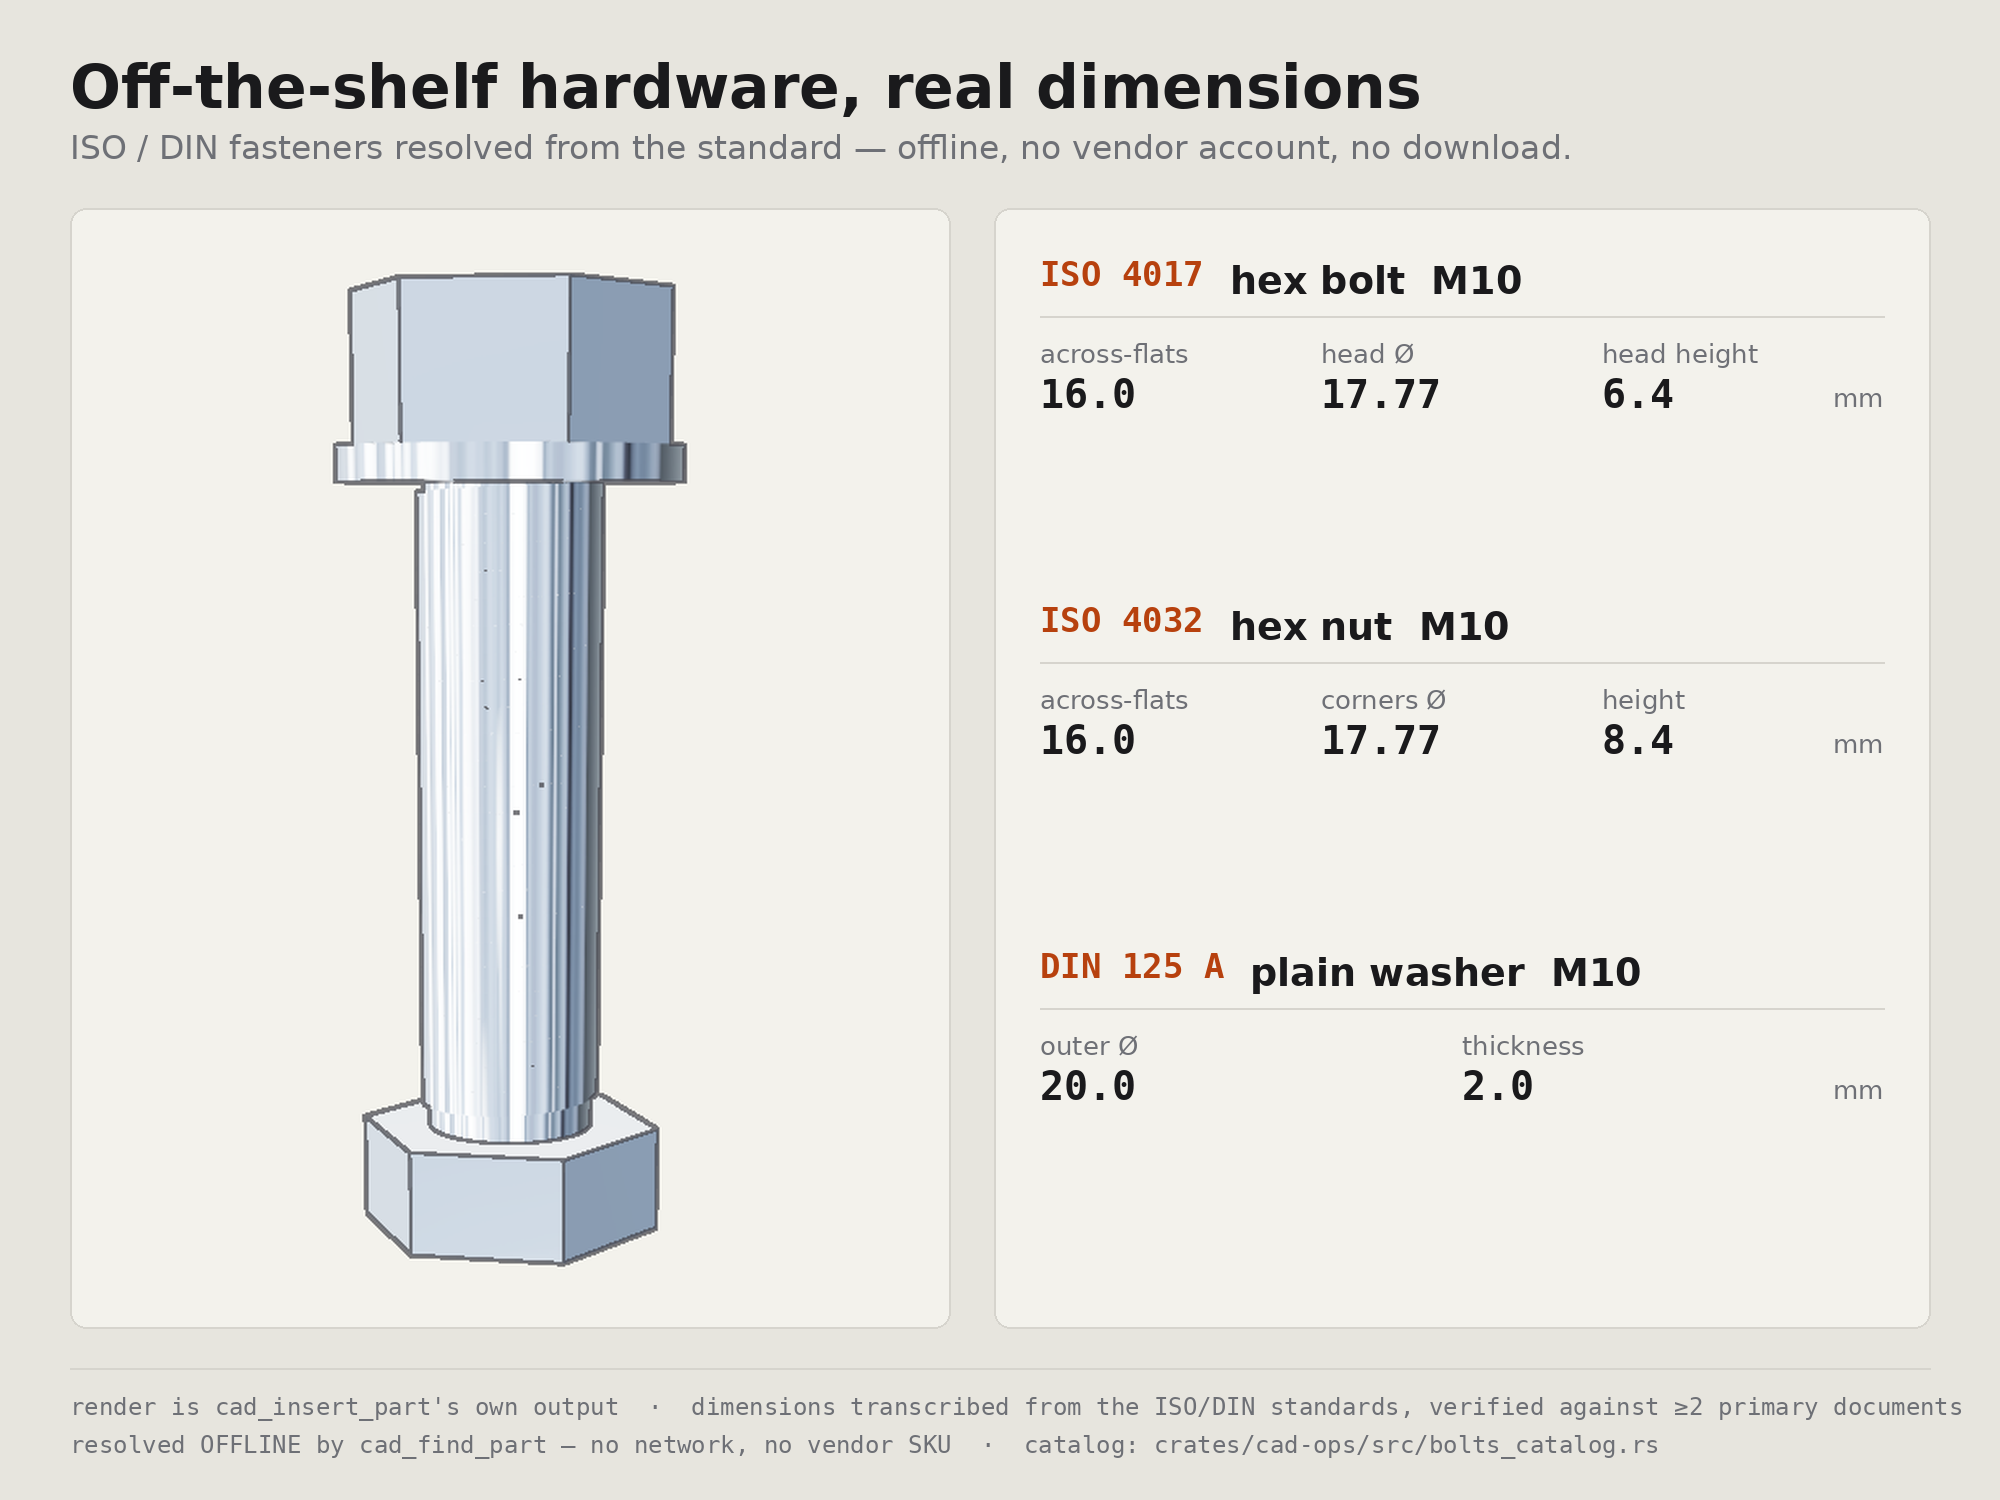
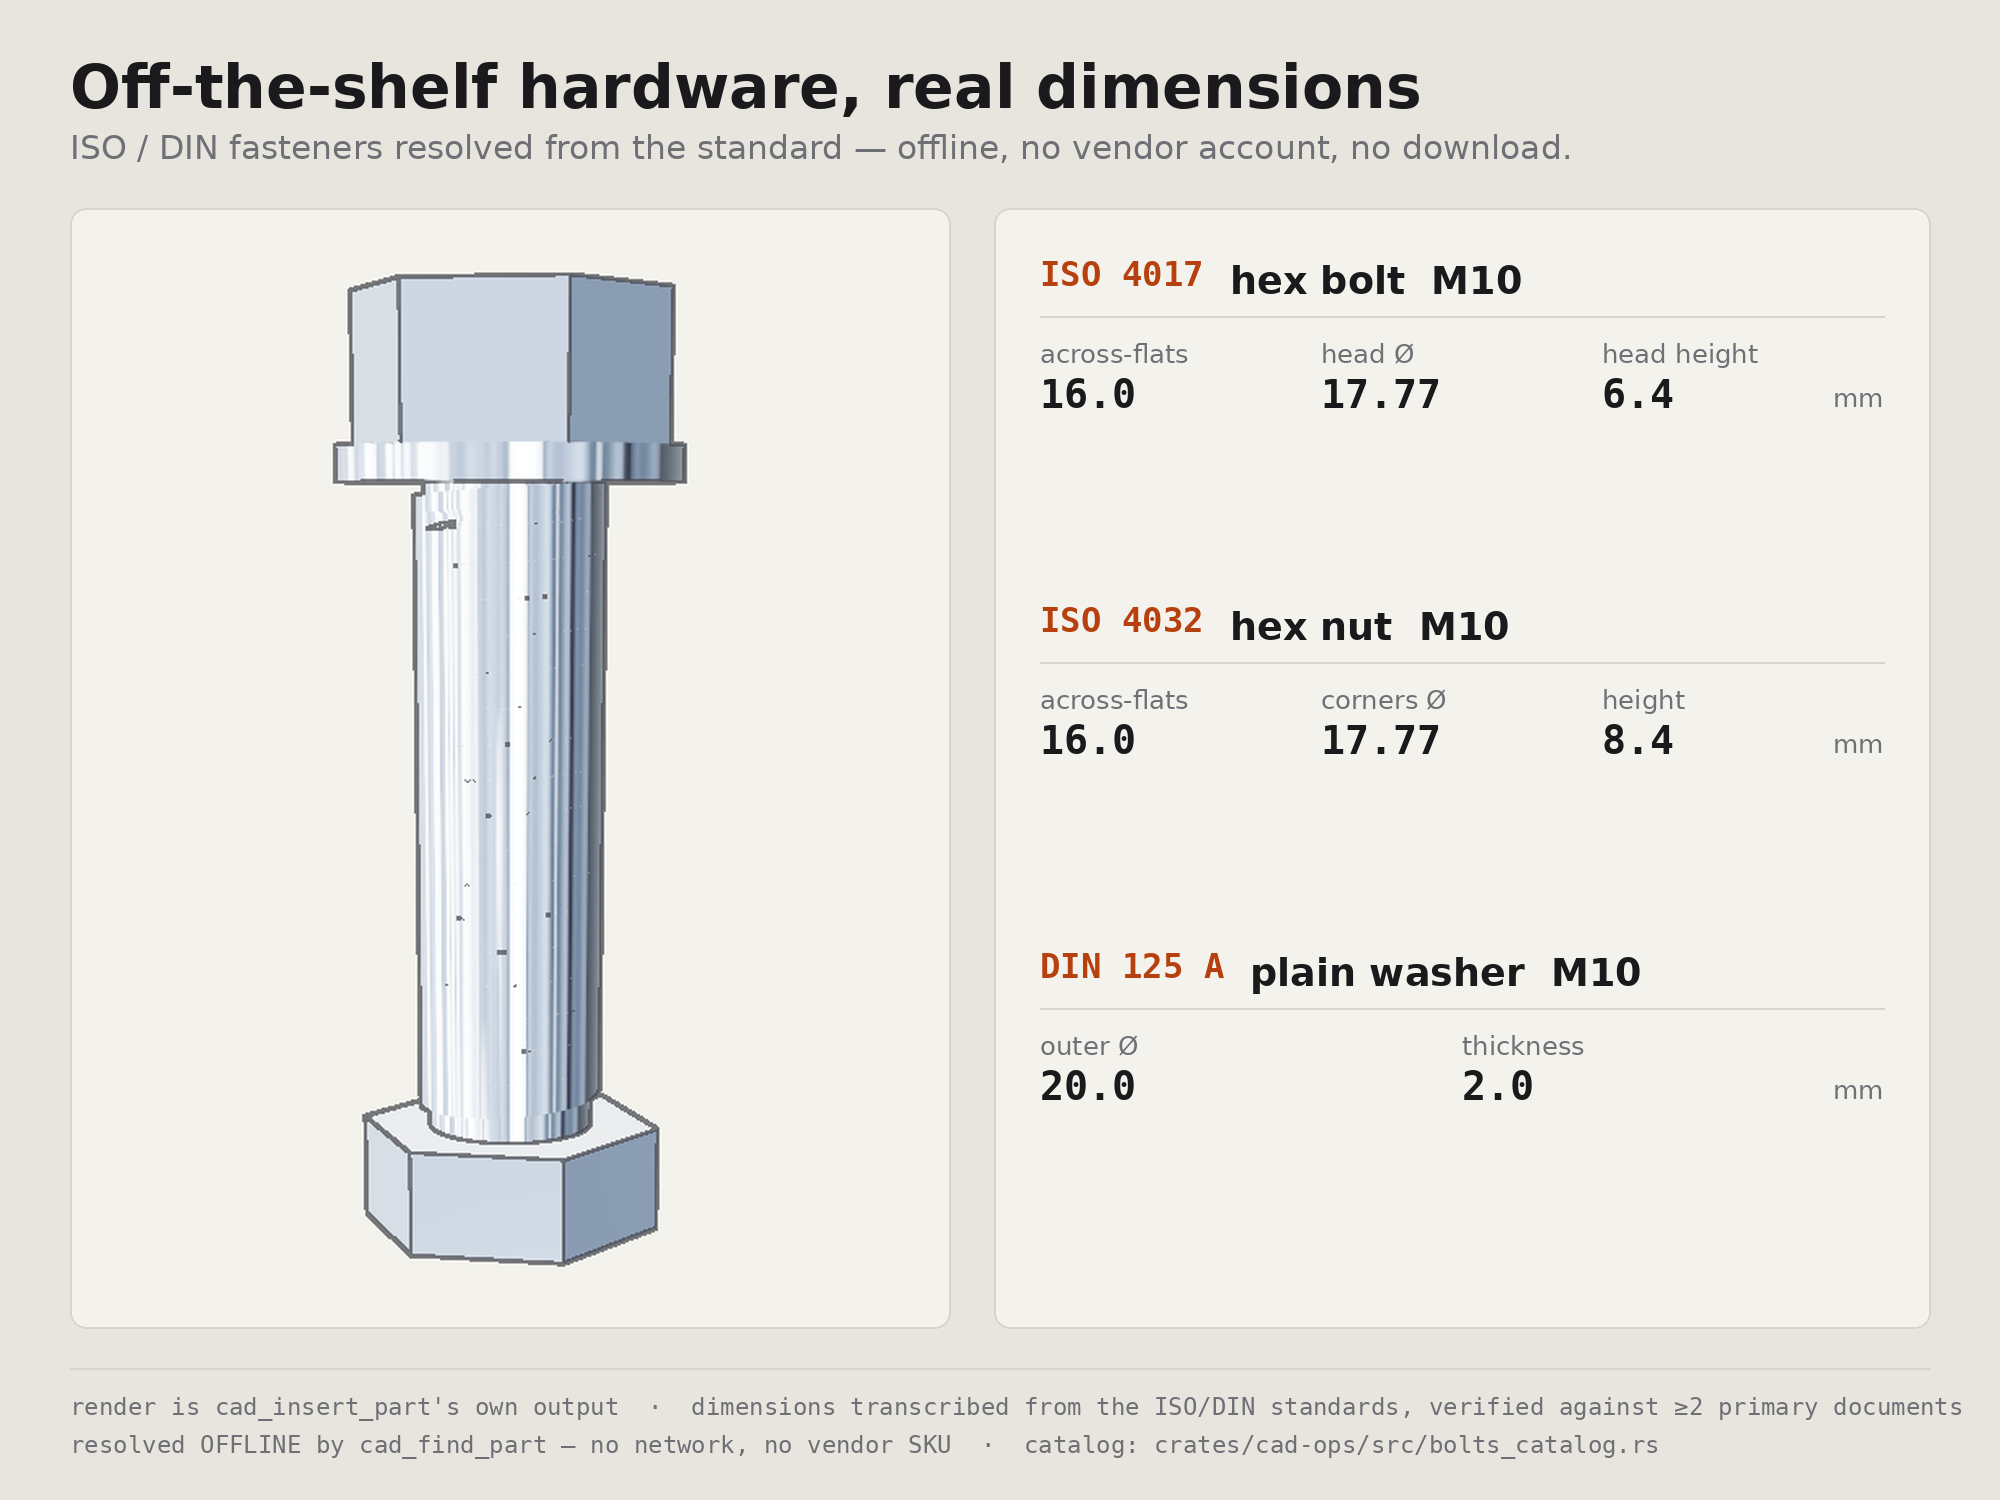
proof: real exploded coupling + threaded standard-parts bolt
The "assemblies that fan apart" tile is now a real bolted flange coupling
exploded along its axis (was flat placeholder plates), and the prompt matches.
The standard-parts bolt now shows a threaded shank.

Changed region(s): [[0.186, 0.3067, 0.31, 0.736]]

diff --git a/components/Proof.tsx b/components/Proof.tsx
@@ -78,10 +78,15 @@ const proofs: Proof[] = [
     prompt: "Position the holes ⌀0.1 to A|B|C, flatness 0.05, perpendicular 0.1 to A.",
   },
   {
+    // A REAL bolted flange coupling — two flanges (disc + hub + bore + bolt
+    // holes), four ISO M8 hex bolts (cad_insert_part + cad_thread) and four hex
+    // nuts, assembled with cad_assembly / cad_component and fanned along its axis
+    // by cad_explode. Every part is real B-rep geometry, not a flat placeholder.
+    // Reproducible via scripts/build-showcase-explode.sh (tracked ops recipe).
     img: "/screenshots/showcase/explode-poster.jpg",
     fit: "cover",
     title: "Assemblies that fan apart",
-    prompt: "Build the cylinder, then fan it out for the manual.",
+    prompt: "Build a bolted flange coupling, then fan it out for the manual.",
   },
   {
     // Mechatronics: cad_kinematics over a real joint chain — FK + the joint
